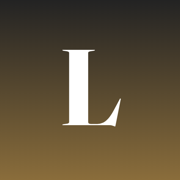
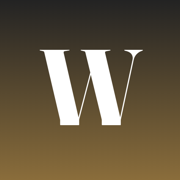
Claude: Umbenennung in „Wunderbar(es) lesen“, Klammer mit etwas Luft, neues Symbol

Changed region(s): [[0.2222, 0.25, 0.8056, 0.7222]]

diff --git a/index.html b/index.html
@@ -16,7 +16,7 @@
   <meta name="apple-mobile-web-app-title" content="Wunderbar(es) lesen">
   <link rel="apple-touch-icon" href="apple-touch-icon.png">
   <link rel="preload" href="fonts/inter-latin.woff2" as="font" type="font/woff2" crossorigin>
-  <link rel="stylesheet" href="style.css?v=80b76797">
+  <link rel="stylesheet" href="style.css?v=ba121703">
 </head>
 <body>
   <div class="hintergrund" id="hg1" style="--opacity:1"></div>
@@ -79,7 +79,7 @@
   <div class="hinweis" id="hinweis" role="status"></div>
 
   <script src="einstellungen.js?v=92a167d4"></script>
-  <script src="eintraege.js?v=43d58d0c"></script>
+  <script src="eintraege.js?v=1f4cf7b6"></script>
   <script src="app.js?v=a75338e0"></script>
 </body>
 </html>

diff --git a/style.css b/style.css
@@ -82,7 +82,7 @@ body {
 }
 
 /* Die Klammer im Namen etwas leiser, damit beide Lesarten sichtbar bleiben: „Wunderbar lesen“ und „Wunderbares lesen“. */
-.klammer { opacity: .55; font-weight: 600; }
+.klammer { opacity: .55; font-weight: 600; margin-left: .05em; }
 
 /* ---------- Titelliste links (Werte aus dem Original: .hcoww0/1/2 und die nth-child-Stufen) ---------- */
 

diff --git a/eintraege.js b/eintraege.js
@@ -1,4 +1,4 @@
-// Automatisch erzeugt aus lies-etwas-wunderbares-intern/daten/texte.json – nicht von Hand bearbeiten.
+// Automatisch erzeugt aus wunderbares-lesen-intern/daten/texte.json – nicht von Hand bearbeiten.
 window.EINTRAEGE = [
   {
     "titel": "Über die allmähliche Verfertigung der Gedanken beim Reden",

diff --git a/README.md b/README.md
@@ -1,4 +1,4 @@
-# Lies etwas Wunderbares
+# Wunderbar(es) lesen
 
 Zeitlose Texte, die es wert sind, gelesen zu werden: Essays, Reden und Briefe. Eine Karte pro Text, ein Klick öffnet das Original.
 
